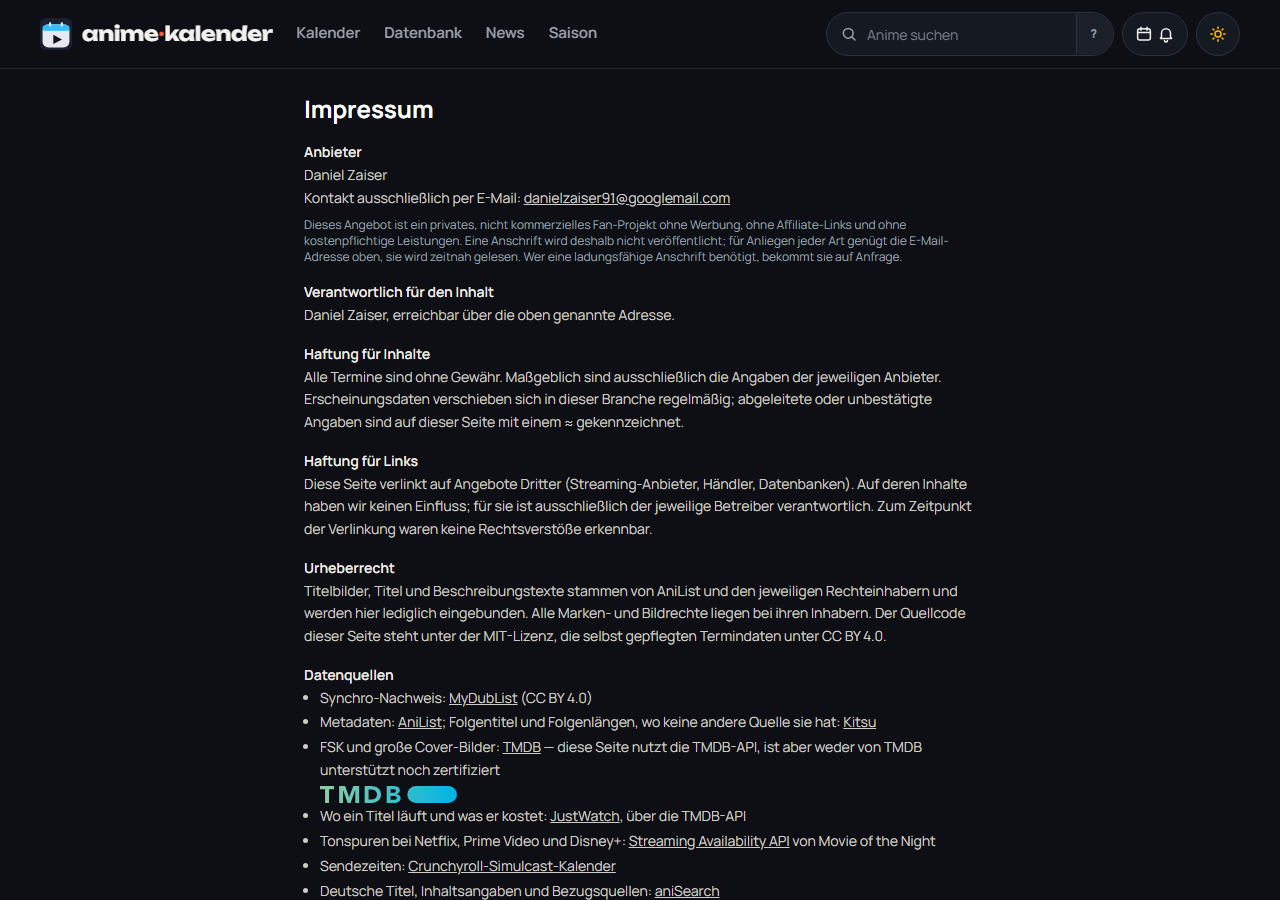
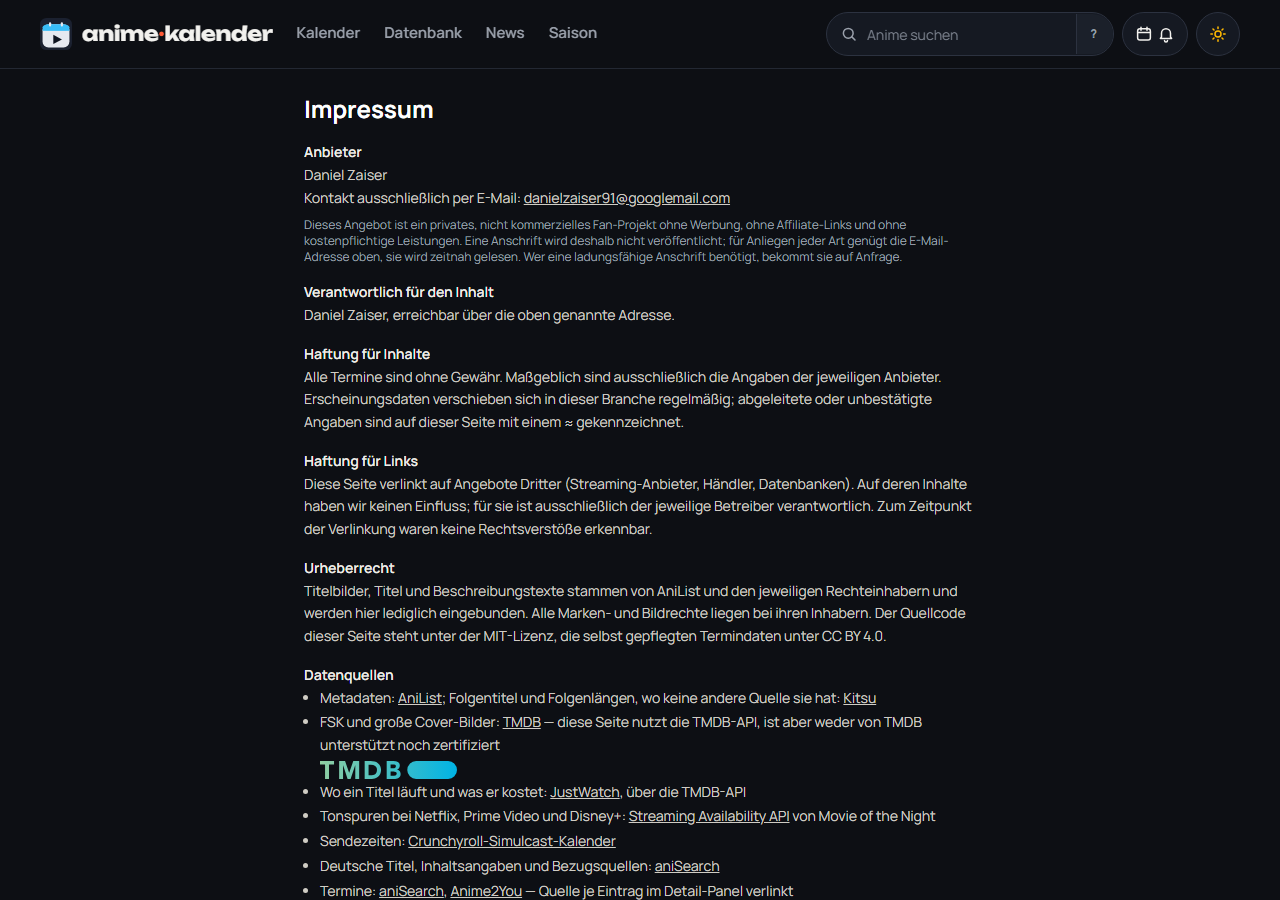
MyDubList-Nennung entfernen (#600)
* MyDubList-Nennung entfernt (Impressum, Kommentare, ungenutzter Text detail.dubProof)

Die Quelle ist seit 03.10.2026 raus; nur die Nennung fällt, kein Datenumbau.

* Ansichtsbilder Impressum neu (ohne MyDubList-Zeile)

---------

Changed region(s): [[0.25, 0.7467, 0.75, 1.0]]

diff --git a/web/src/components/StaticViews.tsx b/web/src/components/StaticViews.tsx
@@ -916,9 +916,6 @@ export function ImpressumView() {
         <h2 className="font-semibold text-slate-800 dark:text-slate-100">Datenquellen</h2>
         <ul className="ml-4 list-disc space-y-0.5">
           <li>
-            Synchro-Nachweis: <a className="underline" href="https://mydublist.com">MyDubList</a> (CC BY 4.0)
-          </li>
-          <li>
             Metadaten: <a className="underline" href="https://anilist.co">AniList</a>; Folgentitel und Folgenlängen, wo keine andere Quelle sie hat: <a className="underline" href="https://kitsu.app">Kitsu</a>
           </li>
           <li>
@@ -978,7 +975,7 @@ export function ImpressumView() {
  * Quellen und Lizenzen als eigene Ansicht.
  *
  * Im Seitenfuß machte die Liste ihn sechs Zeilen lang. Verschwinden darf sie nicht — die anime-offline-database steht
- * unter ODbL, MyDubList unter CC BY 4.0, und beide verlangen die Nennung. Ein
+ * unter ODbL und verlangt die Nennung. Ein
  * Klick entfernt erfüllt das genauso wie unter jeder Seite, und hier ist Platz
  * zu erklären, wofür welche Quelle überhaupt gebraucht wird.
  */
@@ -986,8 +983,7 @@ export function ImpressumView() {
  * **Eine Adresse, die dasteht, gehört verlinkt.**
  *
  * `meta.attribution` sind fertige Sätze aus der Pipeline, und die Adresse steht
- * darin im Klartext: „Dub-Daten: MyDubList (https://mydublist.com) — CC BY
- * 4.0". Gerendert wurde der Satz roh — auf der Quellenseite standen damit sieben
+ * darin im Klartext, z. B. „Quelle (https://…) — Lizenz". Gerendert wurde der Satz roh — auf der Quellenseite standen damit sieben
  * ausgeschriebene URLs, die niemand anklicken konnte (gemessen am 03.09.2026).
  *
  * Der Lizenzhinweis verlangt die Nennung der Quelle; ein Klick dorthin ist das

diff --git a/web/src/lib/i18n.tsx b/web/src/lib/i18n.tsx
@@ -772,7 +772,6 @@ const TEXTE = {
   'quellen.feedFsk': 'Altersfreigabe',
   'quellen.note': 'Termine sind je Eintrag belegt und verlinkt. Bei den übrigen Angaben steht, welche Quelle sie im Regelfall liefert — sie werden nicht einzeln nachgewiesen.',
   'detail.malMeaning': 'Die Kennung dieses Anime bei MyAnimeList.',
-  'detail.dubProof': 'Synchro belegt über MyDubList ({sources})',
 
   ...TEXTE_SEITEN,
   ...TEXTE_KALENDER,
